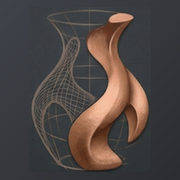
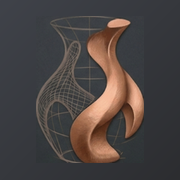
Add files via upload

diff --git a/index.html b/index.html
@@ -3,7 +3,7 @@
 <head>
   <meta charset="UTF-8">
   <meta name="viewport" content="width=device-width, initial-scale=1.0">
-  <title>ModelSmith v1.5.1</title>
+  <title>ModelSmith v1.5.2</title>
[1 lines of base64/hex data omitted]
   <link rel="preconnect" href="https://fonts.googleapis.com">
   <link rel="preconnect" href="https://fonts.gstatic.com" crossorigin>
@@ -30,7 +30,7 @@
   </script>
   <script>
     // ModelSmith version — shown in the header and logged for support.
-    window.MODELSMITH_VERSION = 'v1.5.1';
+    window.MODELSMITH_VERSION = 'v1.5.2';
     if ('serviceWorker' in navigator) {
       window.addEventListener('load', () => {
         navigator.serviceWorker.register('sw.js').catch(err => console.warn('SW registration failed:', err));
@@ -962,7 +962,7 @@
       <div class="brand-mark">
[1 lines of base64/hex data omitted]
       </div>
-      <div class="brand-title">ModelSmith <span style="font-family:var(--mono); font-size:10px; font-weight:600; color:var(--accent); background:rgba(194,137,95,0.14); border:1px solid rgba(194,137,95,0.3); border-radius:5px; padding:1px 5px; vertical-align:middle; margin-left:4px;">v1.5.1</span></div>
+      <div class="brand-title">ModelSmith <span style="font-family:var(--mono); font-size:10px; font-weight:600; color:var(--accent); background:rgba(194,137,95,0.14); border:1px solid rgba(194,137,95,0.3); border-radius:5px; padding:1px 5px; vertical-align:middle; margin-left:4px;">v1.5.2</span></div>
       <div class="brand-sub">CAD suite</div>
     </div>
     <div class="mode-switch" id="mode-switch">
@@ -1812,6 +1812,8 @@
           <button class="mini-btn" id="pl-merge">Merge down</button>
           <button class="mini-btn" id="pl-rasterize">Rasterize</button>
           <button class="mini-btn" id="pl-unite" style="grid-column:1/-1;">Remove overlaps (unite)</button>
+          <button class="mini-btn" id="pl-subtract" style="grid-column:1/-1;">Erase overlap (subtract top)</button>
+          <button class="mini-btn" id="pl-flatten-text" style="grid-column:1/-1;">Flatten text (bake permanently)</button>
         </div>
         <div class="hint" style="margin-top:8px;">Tap a layer to work on it. The eye toggles visibility. Vector layers (VEC) keep their shapes editable — use the Edit-points tool to drag them. Rasterize bakes a vector layer into pixels. Remove overlaps merges a vector layer's filled shapes into one silhouette, like a boolean union.</div>
       </div>
@@ -9716,19 +9718,68 @@
       }
 
       // Bake the live text into the active layer.
+      // Commit the live text to the active layer AS AN EDITABLE OBJECT. Rather than
+      // baking straight to pixels (which makes it permanent and un-retypeable), the
+      // text is stored on the layer and re-rendered from its string/font/size. The
+      // text tool can hit-test these later to re-open them for editing. A separate
+      // "flatten text" bakes them to pixels only when the user explicitly wants that.
       function commitText() {
         if (!liveText) return;
         const l = active();
         const data = paintFonts[liveText.key];
         if (!l || !data) { liveText = null; composite(); return; }
-        const w = measureText(data, liveText.str, liveText.size);
-        const draw = (ctx) => drawText(ctx, data, liveText.str, liveText.x - w / 2,
-                                       liveText.y + liveText.size * 0.35, liveText.size, liveText.colour);
-        if (sel) withSelection(l, draw); else draw(l.ctx);
+        if (!l.texts) l.texts = [];
+        l.texts.push({
+          str: liveText.str, x: liveText.x, y: liveText.y,
+          key: liveText.key, size: liveText.size, colour: liveText.colour
+        });
         const s = liveText.str;
         liveText = null; textDrag = null;
-        composite(); pushHistory('Added text'); renderLayerList();
-        banner(`Set "${s.length > 18 ? s.slice(0, 18) + '…' : s}" down.`);
+        renderTextLayer(l);
+        composite(); pushHistory('Edited text'); renderLayerList();
+        banner(`Text set — click it again with the Text tool to edit.`);
+      }
+
+      // Re-render a layer's editable text objects. Text sits in its own scratch that
+      // composites over the layer's painted pixels, so editing a caption never
+      // disturbs brushwork underneath. We keep the raw painted pixels in _paint and
+      // rebuild canvas = paint + texts on every change.
+      function renderTextLayer(l) {
+        if (!l.texts || !l.texts.length) {
+          // nothing to overlay — if we had stashed paint, restore it
+          if (l._paint) { l.ctx.setTransform(1,0,0,1,0,0); l.ctx.clearRect(0,0,W,H); l.ctx.drawImage(l._paint,0,0); }
+          touch(l);
+          return;
+        }
+        // stash the painted pixels the first time (before any text overlay)
+        if (!l._paint) {
+          l._paint = document.createElement('canvas'); l._paint.width = W; l._paint.height = H;
+          l._paint.getContext('2d').drawImage(l.canvas, 0, 0);
+        }
+        l.ctx.setTransform(1,0,0,1,0,0);
+        l.ctx.clearRect(0,0,W,H);
+        l.ctx.drawImage(l._paint, 0, 0);
+        l.texts.forEach(t => {
+          const data = paintFonts[t.key];
+          if (!data) { ensureTextFont(t.key).then(() => { renderTextLayer(l); composite(); }); return; }
+          const w = measureText(data, t.str, t.size);
+          drawText(l.ctx, data, t.str, t.x - w / 2, t.y + t.size * 0.35, t.size, t.colour);
+        });
+        touch(l);
+      }
+
+      // Find an editable text object at a point (topmost first), for re-editing.
+      function hitLayerText(l, p) {
+        if (!l.texts) return -1;
+        for (let i = l.texts.length - 1; i >= 0; i--) {
+          const t = l.texts[i];
+          const data = paintFonts[t.key];
+          if (!data) continue;
+          const w = measureText(data, t.str, t.size), h = t.size;
+          const bx = t.x - w / 2, by = t.y - h * 0.35;
+          if (p.x >= bx - 6 && p.x <= bx + w + 6 && p.y >= by - 6 && p.y <= by + h + 6) return i;
+        }
+        return -1;
       }
 
       // Re-render the live text when its font/size/colour is changed from the HUD.
@@ -9746,11 +9797,11 @@
       // on iPad covers the canvas you're trying to place text on. The popover opens
       // next to the click and is clamped to the viewport.
       let textTarget = null;
-      function askForText(e, p) {
+      function askForText(e, p, prefill) {
         const pop = $('ps-text-pop'), input = $('ps-text-input');
         if (!pop || !input) return;
         textTarget = { x: p.x, y: p.y };
-        input.value = '';
+        input.value = prefill || '';
         pop.style.display = 'block';
         // position near the pointer, kept on screen
         const r = pop.getBoundingClientRect();
@@ -9773,9 +9824,9 @@
         if (!str || !textTarget) { closeTextPop(); return; }
         liveText = {
           str, x: textTarget.x, y: textTarget.y,
-          key: $('ps-font').value,
-          size: parseInt($('ps-textsize').value) || 72,
-          colour: toolColor()
+          key: (textTarget.key || $('ps-font').value),
+          size: (textTarget.size || parseInt($('ps-textsize').value) || 72),
+          colour: (textTarget.colour || toolColor())
         };
         closeTextPop();
         ensureTextFont(liveText.key).then(() => composite())
@@ -10084,6 +10135,51 @@
         banner('Overlaps removed — shapes merged into one.');
       }
 
+      // Subtract the topmost shape from everything beneath it — the "erase overlap"
+      // counterpart to unite, and the 2D echo of a boolean subtract on the 3D side.
+      // Where the top shape overlaps the shapes below, those pixels are cut away,
+      // leaving a clean bite taken out. Like unite, the result is a pixel fact, so it
+      // bakes to raster.
+      function subtractOverlaps() {
+        const l = active();
+        if (!l || l.kind !== 'vector') return banner('Subtract works on a vector layer.');
+        if (!l.shapes || l.shapes.length < 2) return banner('Need at least two shapes — the top one cuts the rest.');
+
+        const cutter = l.shapes[l.shapes.length - 1];
+        const below = l.shapes.slice(0, -1);
+
+        // draw everything below onto a scratch
+        const out = document.createElement('canvas'); out.width = W; out.height = H;
+        const c = out.getContext('2d');
+        c.lineCap = 'round'; c.lineJoin = 'round';
+        below.forEach(s => {
+          c.save();
+          c.strokeStyle = s.stroke || '#000'; c.fillStyle = s.fill || 'transparent';
+          c.lineWidth = s.width || 2;
+          c.beginPath(); shapePath(c, s);
+          if (s.fill && s.fill !== 'transparent') c.fill();
+          if (s.strokeOn !== false) c.stroke();
+          c.restore();
+        });
+        // punch the cutter's silhouette out of them
+        c.save();
+        c.globalCompositeOperation = 'destination-out';
+        c.beginPath(); shapePath(c, cutter);
+        c.fill();
+        // also remove where the cutter's stroke would sit, so the bite is clean
+        if (cutter.strokeOn !== false) { c.lineWidth = cutter.width || 2; c.stroke(); }
+        c.restore();
+
+        l.ctx.setTransform(1, 0, 0, 1, 0, 0);
+        l.ctx.clearRect(0, 0, W, H);
+        l.ctx.drawImage(out, 0, 0);
+        l.shapes = [];
+        l.kind = 'raster';
+        touch(l);
+        composite(); pushHistory('Subtracted overlap'); renderLayerList();
+        banner('Top shape cut out of the shapes below.');
+      }
+
       // ── History (snapshot every layer's pixels) ─────────────────────────────
       // Encoding a layer to PNG is by far the most expensive thing in a snapshot,
       // and snapshots run on every stroke (history) and every autosave. Most of that
@@ -10098,7 +10194,11 @@
       function touchAll() { layers.forEach(touch); }
       function layerPNG(l) {
         if (l._pngRev === l._rev && l._png != null) return l._png;
-        l._png = l.canvas.toDataURL();
+        // If the layer carries editable text, persist the PAINT-ONLY base (text is
+        // stored separately and re-rendered), so restoring doesn't bake text in and
+        // then draw it again on top.
+        const src = (l.texts && l.texts.length && l._paint) ? l._paint : l.canvas;
+        l._png = src.toDataURL();
         l._pngRev = l._rev || 0;
         return l._png;
       }
@@ -10110,6 +10210,7 @@
             id: l.id, name: l.name, visible: l.visible, opacity: l.opacity,
             blend: l.blend, kind: l.kind,
             shapes: JSON.parse(JSON.stringify(l.shapes || [])),
+            texts: JSON.parse(JSON.stringify(l.texts || [])),
             data: layerPNG(l)
           }))
         };
@@ -10298,13 +10399,23 @@
         layers = snap.layers.map(s => {
           const l = makeLayer(s.name, s.kind);
           l.id = s.id; l.visible = s.visible; l.opacity = s.opacity;
-          l.blend = s.blend; l.shapes = s.shapes || [];
+          l.blend = s.blend; l.shapes = s.shapes || []; l.texts = s.texts || [];
           const img = new Image();
-          img.onload = () => { if (gen === restoreGen) l.ctx.drawImage(img, 0, 0); done(); };
+          img.onload = () => {
+            if (gen === restoreGen) {
+              l.ctx.drawImage(img, 0, 0);
+              // decoded pixels are the paint-only base; keep a copy and lay any
+              // editable text objects on top
+              if (l.texts && l.texts.length) {
+                l._paint = document.createElement('canvas'); l._paint.width = W; l._paint.height = H;
+                l._paint.getContext('2d').drawImage(img, 0, 0);
+                renderTextLayer(l);
+              }
+            }
+            done();
+          };
           img.onerror = done;
           img.src = s.data;
-          // We already hold this layer's PNG (s.data) — prime the cache so the next
-          // snapshot reuses it instead of re-encoding freshly decoded pixels.
           l._rev = 0; l._pngRev = 0; l._png = s.data;
           return l;
         });
@@ -10744,6 +10855,21 @@
           if (liveText) {
             if (hitLiveText(p)) { textDrag = { dx: p.x - liveText.x, dy: p.y - liveText.y }; drawing = true; return; }
             commitText();
+          }
+          // Clicking an already-committed text object re-opens it for editing rather
+          // than stacking a new one on top — this is what makes text re-typeable.
+          const hit = hitLayerText(l, p);
+          if (hit >= 0) {
+            const t = l.texts[hit];
+            // lift it out of the baked set while editing so it isn't shown twice
+            l.texts.splice(hit, 1);
+            renderTextLayer(l); composite();
+            askForText(e, { x: t.x, y: t.y }, t.str);
+            // carry the object's own font/size/colour into the editor
+            textTarget.key = t.key; textTarget.size = t.size; textTarget.colour = t.colour;
+            if ($('ps-textsize')) { $('ps-textsize').value = t.size; if ($('ps-textsize-val')) $('ps-textsize-val').textContent = t.size; }
+            if ($('ps-font')) $('ps-font').value = t.key;
+            return;
           }
           askForText(e, p);
           return;
@@ -11508,6 +11634,16 @@
           banner('Vector layer baked into pixels.');
         };
         if ($('pl-unite')) $('pl-unite').onclick = () => uniteOverlaps();
+        if ($('pl-subtract')) $('pl-subtract').onclick = () => subtractOverlaps();
+        if ($('pl-flatten-text')) $('pl-flatten-text').onclick = () => {
+          const l = active();
+          if (!l || !l.texts || !l.texts.length) return banner('No editable text on this layer.');
+          // the canvas already shows paint+text; just drop the editable objects and
+          // the paint-base so it becomes ordinary pixels
+          l.texts = []; l._paint = null;
+          touch(l); pushHistory('Flattened text'); renderLayerList();
+          banner('Text baked into pixels — no longer editable.');
+        };
         $('pl-dup').onclick = () => {
           const l = active(); if (!l) return;
           const n = addLayer(l.kind, l.name + ' copy');

diff --git a/sw.js b/sw.js
@@ -1,7 +1,7 @@
 // ModelSmith service worker — caches the app shell so it launches offline.
 // Bumping CACHE_NAME on each release makes browsers drop the old cache and
 // pull the new files (see the 'activate' handler below).
-const CACHE_NAME = 'modelsmith-v1.5.1';
+const CACHE_NAME = 'modelsmith-v1.5.2';
 const APP_SHELL = [
   './index.html',
   './manifest.json',
